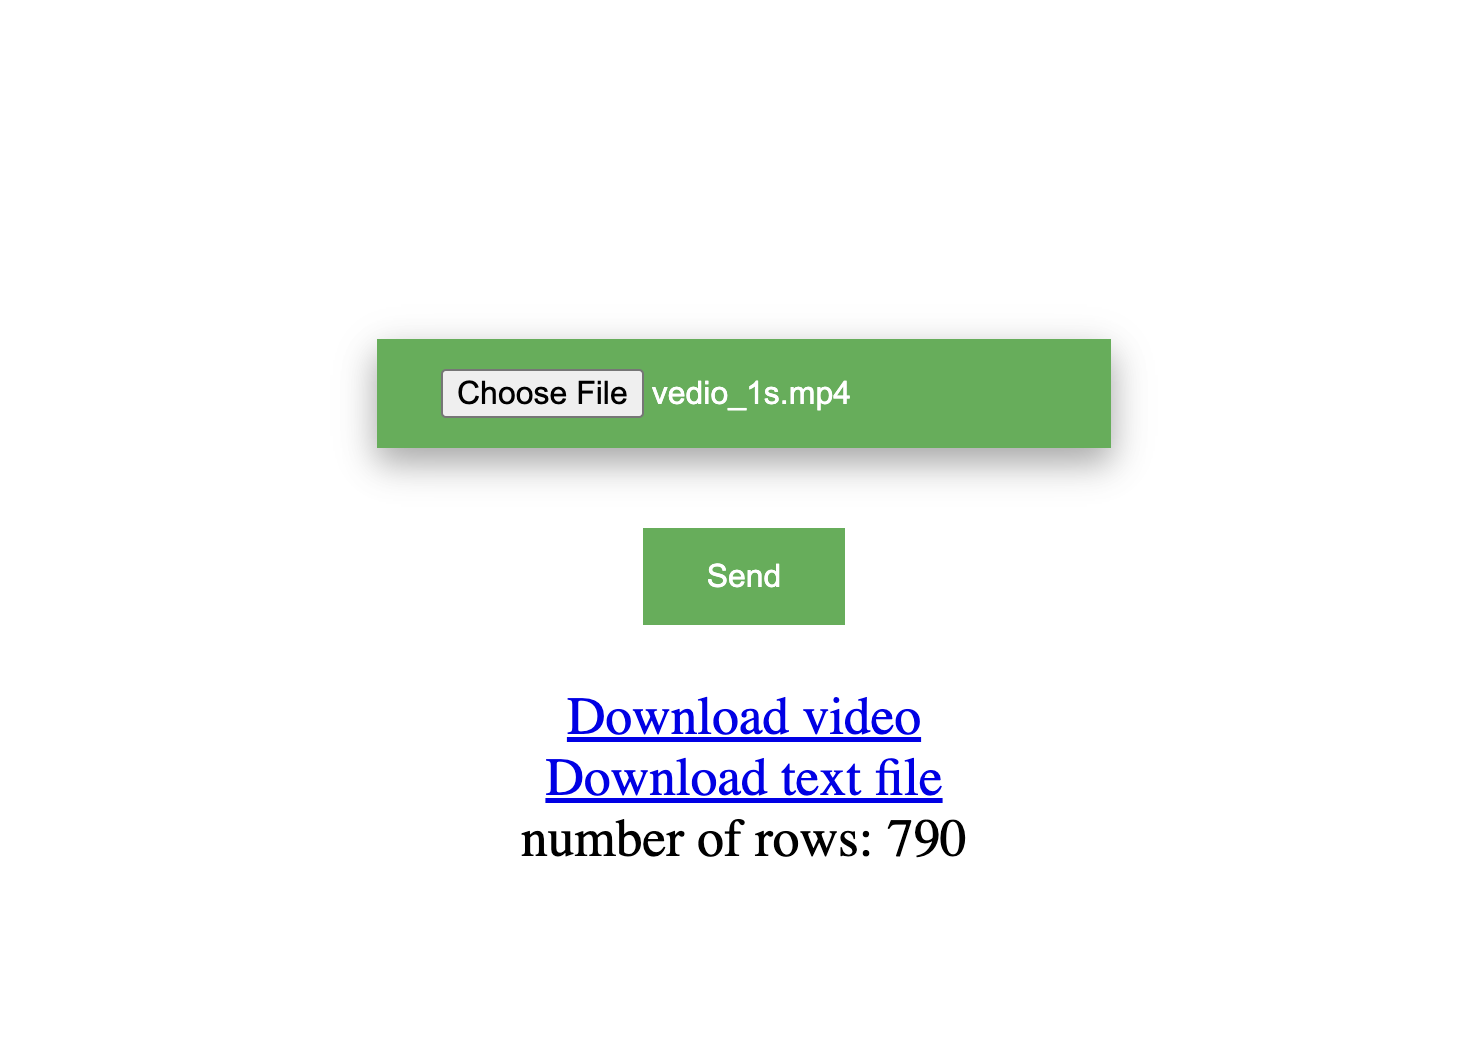
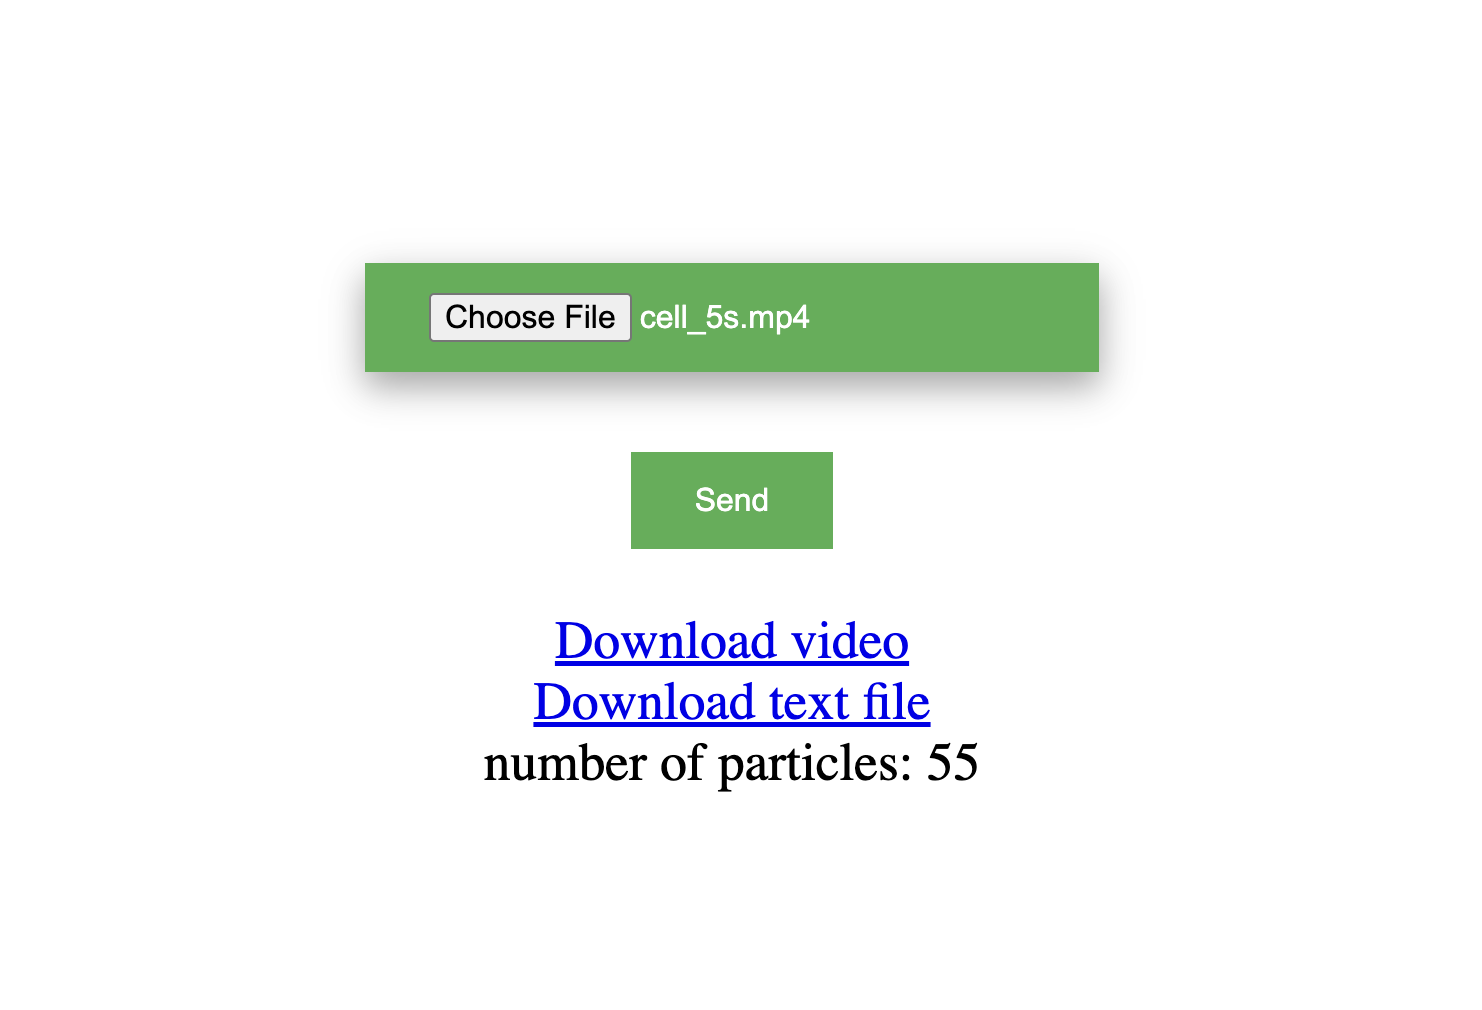
readme

Changed region(s): [[0.2176, 0.2455, 0.777, 0.8287]]

diff --git a/static/index.js b/static/index.js
@@ -14,7 +14,7 @@ window.onload = () => {
       $.ajax({
         url: "/detect", 
         type: "POST",
-        data: formData, // get data from app.py in the format of [video_name : row_number]
+        data: formData, // get data from app.py in the format of [video_name : particle_count]
         cache: false,
         processData: false,
         contentType: false,
@@ -23,16 +23,16 @@ window.onload = () => {
           console.log(data.getAllResponseHeaders());
           $("#link").css("visibility", "hidden");
         },
-        success: function (data) { // data we got from app.py in the format of [video_name : row_number]
+        success: function (data) { // data we got from app.py in the format of [video_name : particle_count]
           $("#loader").css("visibility", "hidden");
           vid_name = data.split(":")[0] // parse vid name from data
-          num_rows = data.split(":")[1] // parse row count from data
+          num_particles = data.split(":")[1] // parse particle count from data
           $("#link1").css("visibility", "visible");
           $("#link2").css("visibility", "visible");
           $("#row").css("visibility", "visible");
           $("#download").attr("href", "static/" + vid_name); // download link for processed video
           $("#download-txt").attr("href", "static/" + vid_name.split(".")[0]+"_result.txt"); // download link for text result
-          $("#row").html("number of particles: "+num_rows) // pass number of rows to ---> index.html
+          $("#row").html("number of particles: "+num_particles) // pass number of particles to ---> index.html
         },
       });
     }

diff --git a/app.py b/app.py
@@ -63,8 +63,6 @@ def tracking(d, file_path):
         #print(temp)
     toc = time.time()
     print("Time taken to process files=",-1*(tic-toc))
-    print("len: ", len(d['id'].unique()))
-    print(d)
 
     # overwirte existed text file
     if os.path.exists(file_path):
@@ -73,7 +71,7 @@ def tracking(d, file_path):
     with open(file_path, 'a') as f:
         dfAsString = d.to_string(header=True, index=False)
         f.write(dfAsString)
-    return len(d['id'].unique())
+    return len(d['id'].unique()) # return number of particles
 
 @app.route("/detect", methods=['POST'])
 def detect():
@@ -120,10 +118,10 @@ def detect():
     d=d.sort_values(by = ['# frame'], ascending = [True]) 
     d['id'] = -1
 
-    count = tracking(d, file_path)
+    count = tracking(d, file_path) # get number of particles
             
-    obj = secure_filename(video.filename) # video file name. For instance, street_vid.mp4
-    data = obj + ":" + str(count) # return file name and count of rows as data to ---> index.js file
+    obj = secure_filename(video.filename) # video file name. For instance, cell_vid.mp4
+    data = obj + ":" + str(count) # return file name and number of particles as data to ---> index.js file
     return data
 
 @app.route("/opencam", methods=['GET'])

diff --git a/README.md b/README.md
@@ -53,25 +53,14 @@ If you need to make changes on the parameters to run detect.py, go to [app.py](h
 subprocess.run(['python3', 'detect.py', '--source', os.path.join(uploads_dir, secure_filename(video.filename)), '--save-txt']) 
 ```
 
-Details on text file row-counting implementation, go to [app.py](https://github.com/TINAOO/yolov5-web-app/blob/main/app.py#:~:text=count%20%3D%200,.close()). Code block is pasted below for your reference.
-- In this code block, `count` is the variable to track the number of rows in the text file. `count` is incrementing at [`count = count + 1`](https://github.com/TINAOO/yolov5-web-app/blob/main/app.py#:~:text=count%20%3D%20count%20%2B%201%20%23%20counting%20rows%20in%20the%20text%20file%2C%20increment%20count%20as%20we%20go%20thru%20line)
+Details on particle tracking implementation, go to `tracking` function in [app.py](https://github.com/TINAOO/yolov5-web-app/blob/main/app.py#:~:text=count%20%3D%200,.close()). Code block is pasted below for your reference.
+- In this code block, `count` is the variable to record the number of particles in the text file. 
 
 ```bash
-count = 0 # initialize a variable to count rows in the file
-    with open(file_path,'w') as file: 
-        for f in file_list:
-            if(name in f):
-                substr1_split = f.split('.')[0].split('_')
-                frame = substr1_split[len(substr1_split)-1] # last element of substr arry = frame number
-                with open(os.path.join(labels_dir, f)) as input_file:
-                    for line in input_file: # iterate each line in all label files
-                        count = count + 1 # counting rows in the text file, increment count as we go thru line
-                        file.write(frame+' ') # write frame number  
-                        file.write(line)
-file.close()
+count = tracking(d, file_path) # get number of particles
 ```
 
-- Row count is returned to `index.js` file, along with user's uploaded video name. [Code block is shown below.](https://github.com/TINAOO/yolov5-web-app/blob/main/app.py#:~:text=obj%20%3D%20secure_filename,return%20data)
+- Particles count is returned to `index.js` file, along with user's uploaded video name. [Code block is shown below.](https://github.com/TINAOO/yolov5-web-app/blob/main/app.py#:~:text=obj%20%3D%20secure_filename,return%20data)
 ```bash
 obj = secure_filename(video.filename) # video file name. For instance, street_vid.mp4
 data = obj + ":" + str(count) # return file name and count of rows as data to ---> index.js file
@@ -83,14 +72,14 @@ return data
 The data is [parsed](https://github.com/TINAOO/yolov5-web-app/blob/main/static/index.js#:~:text=vid_name%20%3D%20data,count%20from%20data) to get video name and row number. [As shown below.](https://github.com/TINAOO/yolov5-web-app/blob/main/static/index.js#:~:text=vid_name%20%3D%20data,count%20from%20data)
 ```bash
 vid_name = data.split(":")[0] // parse vid name from data
-num_rows = data.split(":")[1] // parse row count from data
+num_particles = data.split(":")[1] // parse particle count from data
 ```
 
-Then, the row number is [passed](https://github.com/TINAOO/yolov5-web-app/blob/main/static/index.js#:~:text=%24(%22%23row%22).html(%22number%20of%20rows%3A%20%22%2Bnum_rows)%20//%20pass%20number%20of%20rows%20to%20%2D%2D%2D%3E%20index.html) to [`index.html`](https://github.com/TINAOO/yolov5-web-app/blob/main/templates/index.html) file to be rendered on the web page. Along with download link for processed video and result text file. All saved in `static` folder. [As shown below.](https://github.com/TINAOO/yolov5-web-app/blob/main/static/index.js#:~:text=%24(%22%23download,%2Bnum_rows))
+Then, the particles count is [passed](https://github.com/TINAOO/yolov5-web-app/blob/main/static/index.js#:~:text=%24(%22%23row%22).html(%22number%20of%20rows%3A%20%22%2Bnum_rows)%20//%20pass%20number%20of%20rows%20to%20%2D%2D%2D%3E%20index.html) to [`index.html`](https://github.com/TINAOO/yolov5-web-app/blob/main/templates/index.html) file to be rendered on the web page. Along with download link for processed video and result text file. All saved in `static` folder. [As shown below.](https://github.com/TINAOO/yolov5-web-app/blob/main/static/index.js#:~:text=%24(%22%23download,%2Bnum_rows))
 ```bash
 $("#download").attr("href", "static/" + vid_name); // download link for processed video
 $("#download-txt").attr("href", "static/" + vid_name.split(".")[0]+"_result.txt"); // download link for text result
-$("#row").html("number of rows: "+num_rows) // pass number of rows to ---> index.html
+$("#row").html("number of particles: "+num_particles) // pass number of particles to ---> index.html
 ```
 
 - `index.html` render the UI components. [Code block is pasted below.](https://github.com/TINAOO/yolov5-web-app/blob/main/templates/index.html#:~:text=%3Cdiv%20id,%3C/span%3E)
